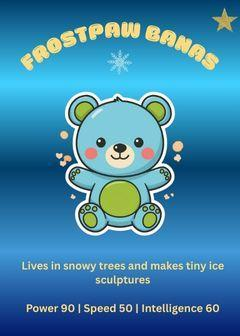
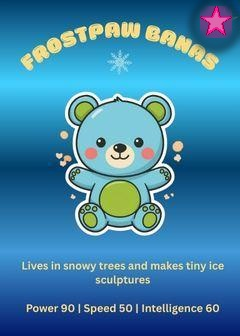
Add Poseidon Banas as a special trump-skip card.
Expand the deck with Poseidon Banas and mark special cards with a hot pink star, including an updated Frostpaw card image.

Changed region(s): [[0.7875, 0.0, 1.0, 0.1786]]

diff --git a/src/game/cards.ts b/src/game/cards.ts
@@ -131,6 +131,16 @@ export const ALL_CARDS: Card[] = [
     flavor: "Lives in snowy trees and makes tiny ice sculptures",
     image: "/cards/frostpaw-banas.jpg",
   },
+  {
+    id: "poseidon-banas",
+    name: "Poseidon Banas",
+    family: "special",
+    power: 50,
+    speed: 100,
+    intelligence: 50,
+    flavor: "Rules the tides with a paddle-sized trident and endless pancake enthusiasm",
+    image: "/cards/poseidon-banas.jpg",
+  },
 ];
 
 const cardById = new Map(ALL_CARDS.map((c) => [c.id, c]));

diff --git a/public/index.html b/public/index.html
@@ -227,7 +227,7 @@
         </section>
         <section>
           <h3>Special cards</h3>
-          <p><strong>Frostpaw Banas</strong> (Special) skips family trump. When a Special card is involved, compare the stat numbers instead.</p>
+          <p><strong>Frostpaw Banas</strong> and <strong>Poseidon Banas</strong> (Special, hot pink star) skip family trump. When a Special card is involved, compare the stat numbers instead.</p>
         </section>
         <section>
           <h3>3–4 players</h3>

diff --git a/README.md b/README.md
@@ -27,11 +27,11 @@ On phones/tablets, **tap a card** to select it, then **tap a stat slot** to assi
 ## How it works
 
 1. **Create or join** a room (2–4 players)
-2. Each round, you receive **3 random cards** from the 13-card deck
+2. Each round, you receive **3 random cards** from the 14-card deck
 3. **Assign** each card to Power, Speed, or Intelligence
 4. Three challenges resolve each round:
    - **Family trump** (Fire → Metal → Earth → Water → Fire)
-   - Special cards (Frostpaw Banas) skip trump
+   - Special cards (Frostpaw Banas, Poseidon Banas) skip trump
    - Highest stat wins if trump doesn't decide
 5. First player to **11 points** wins
 
@@ -52,6 +52,7 @@ On phones/tablets, **tap a card** to select it, then **tap a stat slot** to assi
 | Mud Banas | Earth | 40 | 20 | 50 |
 | Grass Banas | Earth | 35 | 25 | 65 |
 | Frostpaw Banas | Special | 90 | 50 | 60 |
+| Poseidon Banas | Special | 50 | 100 | 50 |
 
 ## Tech
 